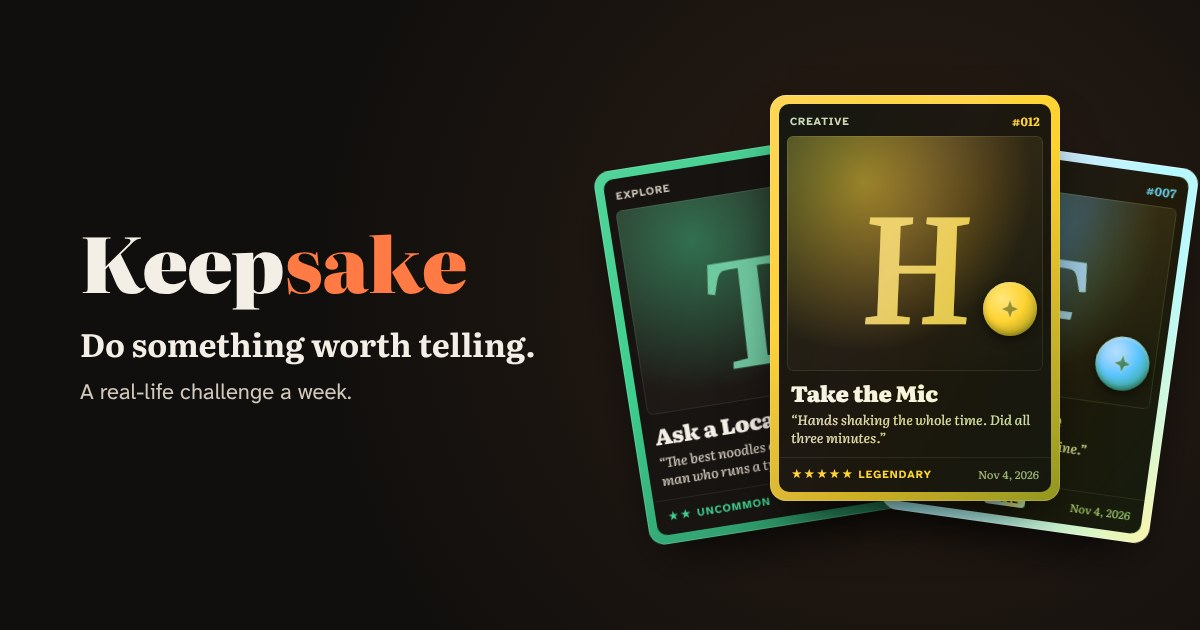
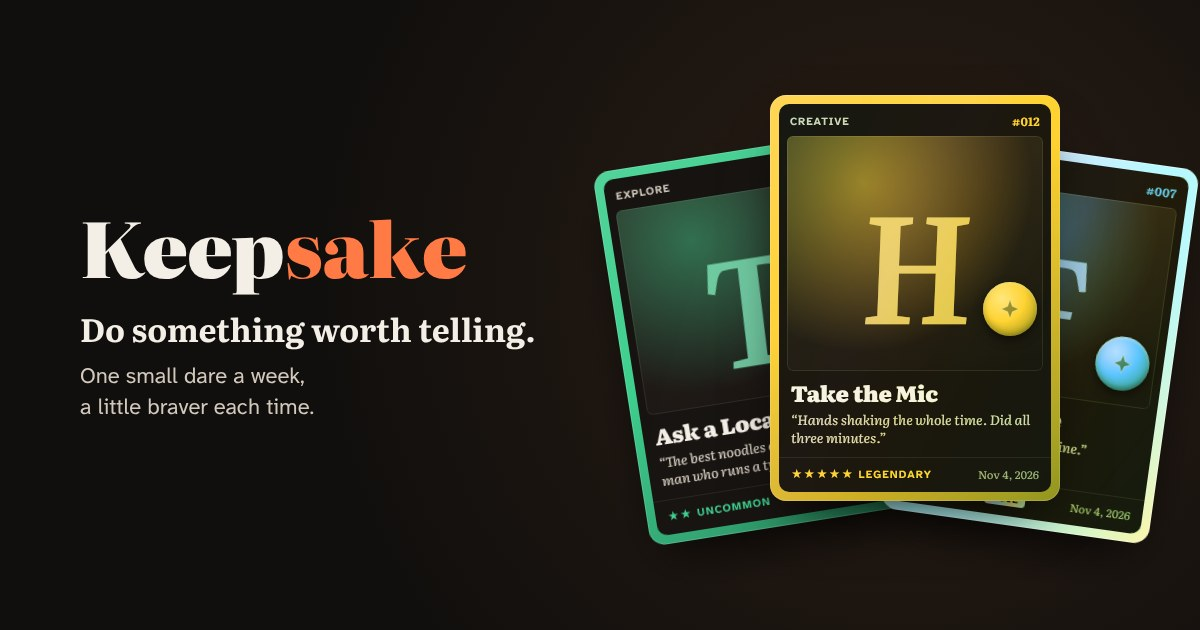
Concrete line under the slogan
"Do something worth telling" stays as the headline. Under it: "One small
dare a week, a little braver each time." The text preview adds one vivid
example (asking a stranger over 60 for the best advice they ever got).

Claude-Session: https://claude.ai/code/session_0122uZCXQ9or5vBjPvnZBLX7

Changed region(s): [[0.0617, 0.3317, 0.4625, 0.6635]]

diff --git a/index.html b/index.html
@@ -5,12 +5,12 @@
   <meta name="viewport" content="width=device-width, initial-scale=1, viewport-fit=cover">
   <meta name="theme-color" content="#110f0d">
   <title>Keepsake</title>
-  <meta name="description" content="A real-life challenge a week.">
+  <meta name="description" content="One small dare a week, a little braver each time. Like asking a stranger over 60 for the best advice they ever got.">
   <!-- how the link looks when it's shared in a chat -->
   <meta property="og:type" content="website">
   <meta property="og:site_name" content="Keepsake">
   <meta property="og:title" content="Keepsake: do something worth telling">
-  <meta property="og:description" content="A real-life challenge a week.">
+  <meta property="og:description" content="One small dare a week, a little braver each time. Like asking a stranger over 60 for the best advice they ever got.">
   <meta property="og:url" content="https://collederas.github.io/keepsake/">
   <meta property="og:image" content="https://collederas.github.io/keepsake/og.jpg">
   <meta property="og:image:width" content="1200">

diff --git a/README.md b/README.md
@@ -1,6 +1,6 @@
 # Keepsake
 
-**Do something worth telling.** A real-life challenge a week, a little braver each time. Every one you do becomes a collectible card you keep. (Prefer more? There's also a few a week, or every day.)
+**Do something worth telling.** One small dare a week, a little braver each time. Every one you do becomes a collectible card you keep. (Prefer more? There's also a few a week, or every day.)
 
 Go to an open mic. Take a bus to nowhere. Ask a stranger over 60 for the best advice they ever got. When you've done it, add a photo and one line about what happened, and watch a live preview of your card. Then tap the face-down card. It charges up through the rarity tiers, which stay hidden until this moment, and flips. Your photo develops like a print, your words ink in, and a wax seal presses into the corner. Epic and Legendary cards also get a burst of light and confetti. The card lands in your Book, numbered, dated and kept forever. You can edit its words later or export it as a high-resolution image to share.
 
